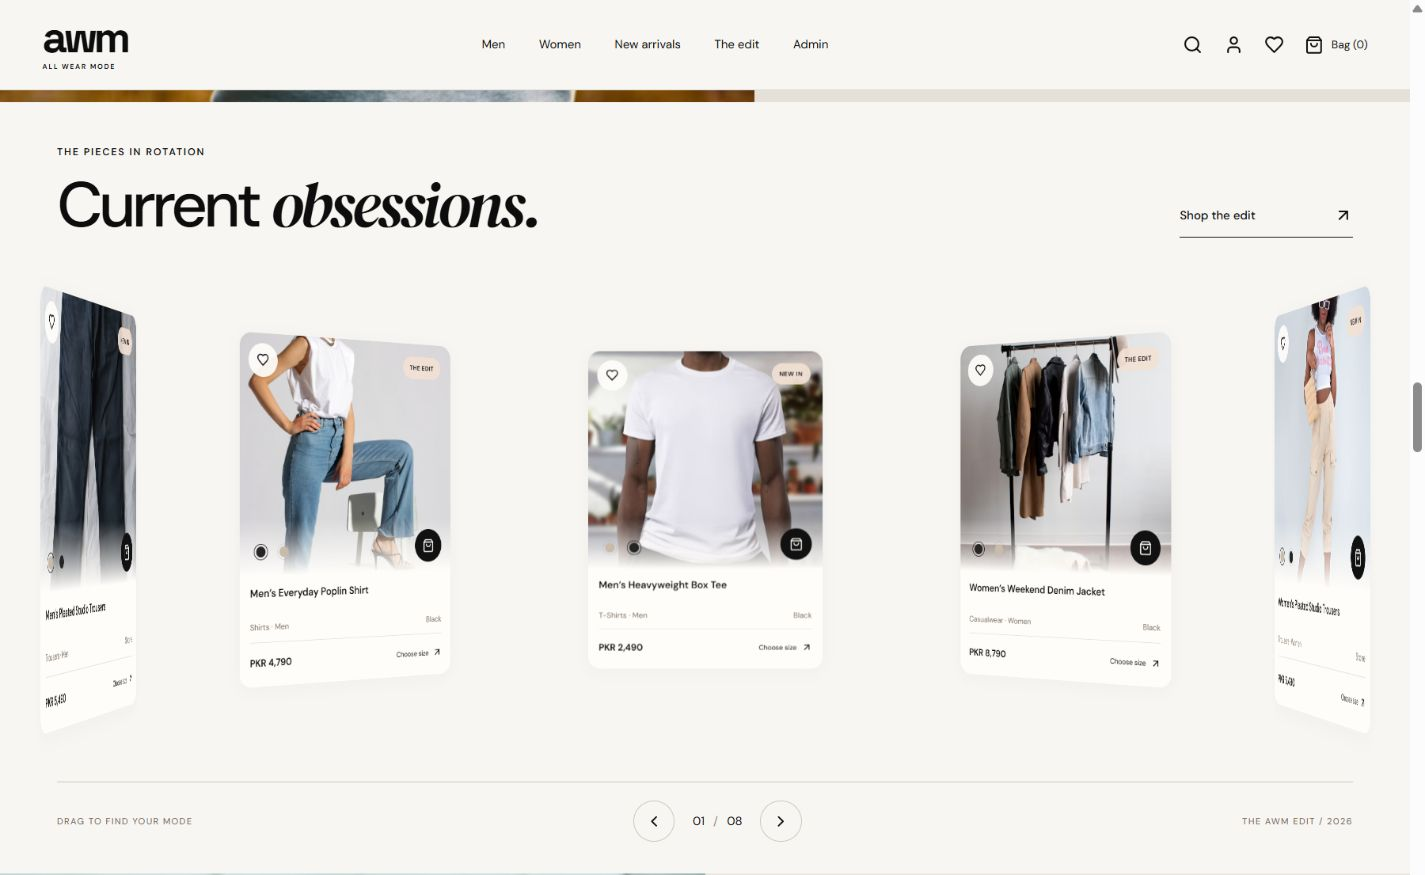
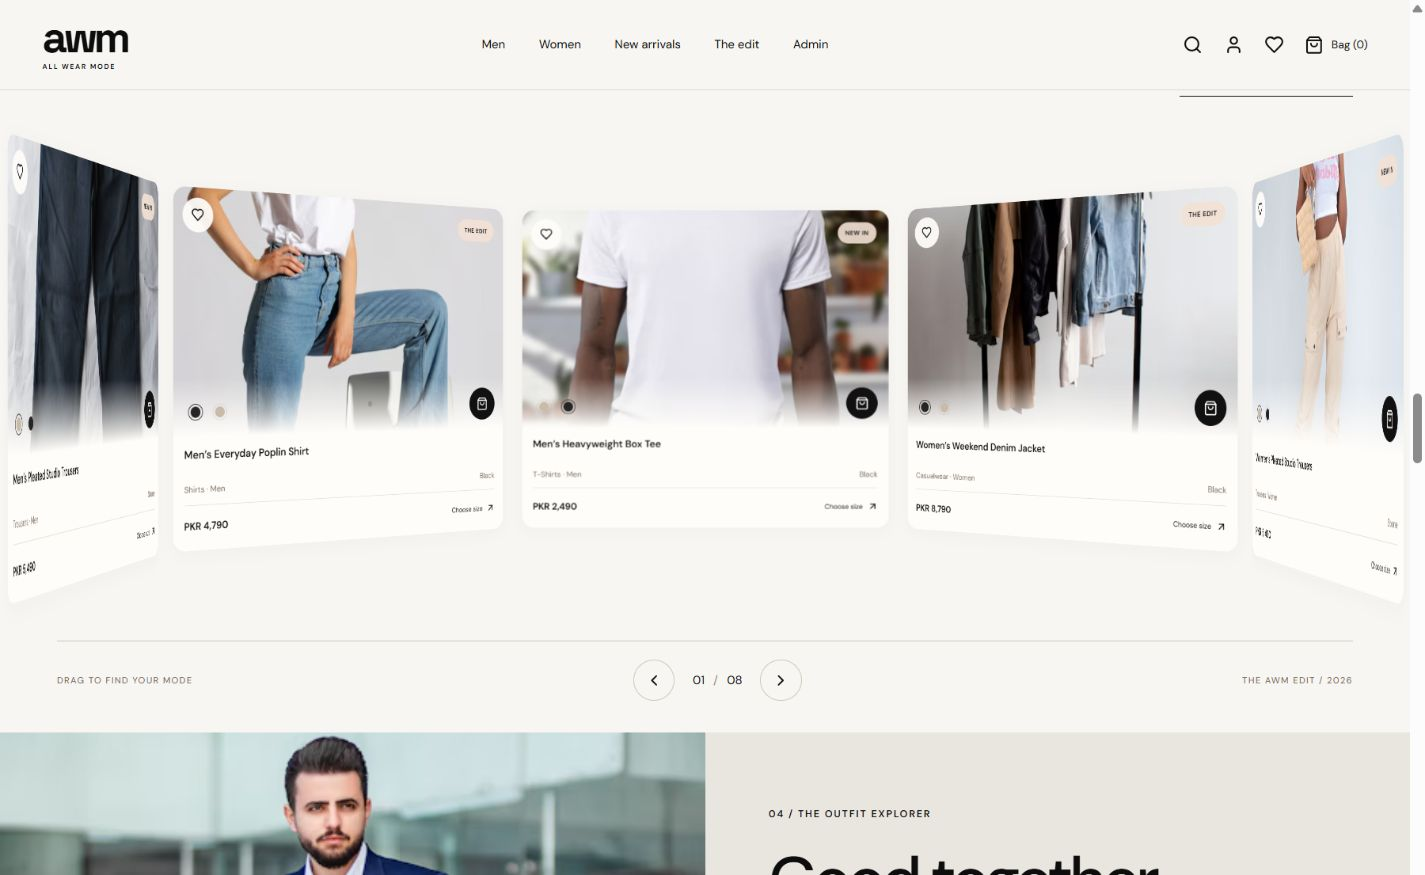
Tighten responsive product ring spacing

diff --git a/src/components/lightswind/3d-image-ring.tsx b/src/components/lightswind/3d-image-ring.tsx
@@ -27,7 +27,7 @@ export interface ThreeDImageRingProps {
 }
 
 export const ThreeDImageRing = forwardRef<ImageRingHandle, ThreeDImageRingProps>(function ThreeDImageRing({
-  images, labels = [], links = [], width = 310, height = 420, perspective = 2000, imageDistance,
+  images, labels = [], links = [], width = 640, height = 420, perspective = 2000, imageDistance,
   containerClassName, renderStaticItem, renderItem, onActiveChange,
 }, ref) {
   const root = useRef<HTMLDivElement>(null);
@@ -42,7 +42,7 @@ export const ThreeDImageRing = forwardRef<ImageRingHandle, ThreeDImageRingProps>
   const reduced = useReducedMotion();
   const count = images.length;
   const angle = count ? 360 / count : 0;
-  const radius = imageDistance ?? (count > 2 ? Math.max(cardWidth / (2 * Math.tan(Math.PI / count)) + 40, stageWidth * .435) : cardWidth * .65);
+  const radius = imageDistance ?? (count > 2 ? Math.max(cardWidth / (2 * Math.tan(Math.PI / count)) + 18, stageWidth * .435) : cardWidth * .65);
 
   const select = (index: number) => {
     if (!count || reduced) return;
@@ -55,7 +55,9 @@ export const ThreeDImageRing = forwardRef<ImageRingHandle, ThreeDImageRingProps>
     const node = root.current;
     if (!node) return;
     const resize = new ResizeObserver(entries => {
-      setCardWidth(Math.min(width, Math.max(240, entries[0].contentRect.width * .3)));
+      // Keep card width proportional to the full stage so the ring has narrow,
+      // consistent gaps instead of spreading fixed-width cards far apart.
+      setCardWidth(Math.min(width, Math.max(240, entries[0].contentRect.width * .34)));
       setStageWidth(entries[0].contentRect.width);
     });
     resize.observe(node);

diff --git a/docs/QA.md b/docs/QA.md
@@ -80,3 +80,10 @@ The browser contains clearly named QA demo records from purchase testing; these 
 - 320px, 390px and 1440px document widths were checked without horizontal overflow. Desktop center card rendered at approximately 321px high with 115px clearance above/below; mobile center card at approximately 361px with 75px clearance above/below.
 - Scroll Dissolve Reveal and its Three.js/Fiber/Drei dependencies were removed. The campaign renders as an ordinary editorial image with its collection action. No dissolve canvas or sticky dissolve track remains.
 - Captures: awm-product-ring-desktop.png and awm-product-ring-mobile.png. Reduced motion is verified by static rendering, not OS preference emulation; physical touch-device testing was not performed.
+
+## Tighter ring spacing
+
+- Product widths now scale with the full gallery width, and the ring radius uses a smaller spacing allowance. This keeps cards close together while retaining the short 420px source height and full-width stage.
+- At 1440px, the gap between the center product and its immediate neighbour measured about 20px (previously about 140px). At 390px the same gap measured about 11px; the document had no horizontal overflow.
+- Desktop Black colour selection and size-picker opening were rechecked; mobile size-picker opening was rechecked. Existing shopping controls remain intact.
+- Production build passed. Desktop/mobile ring screenshots were updated.
